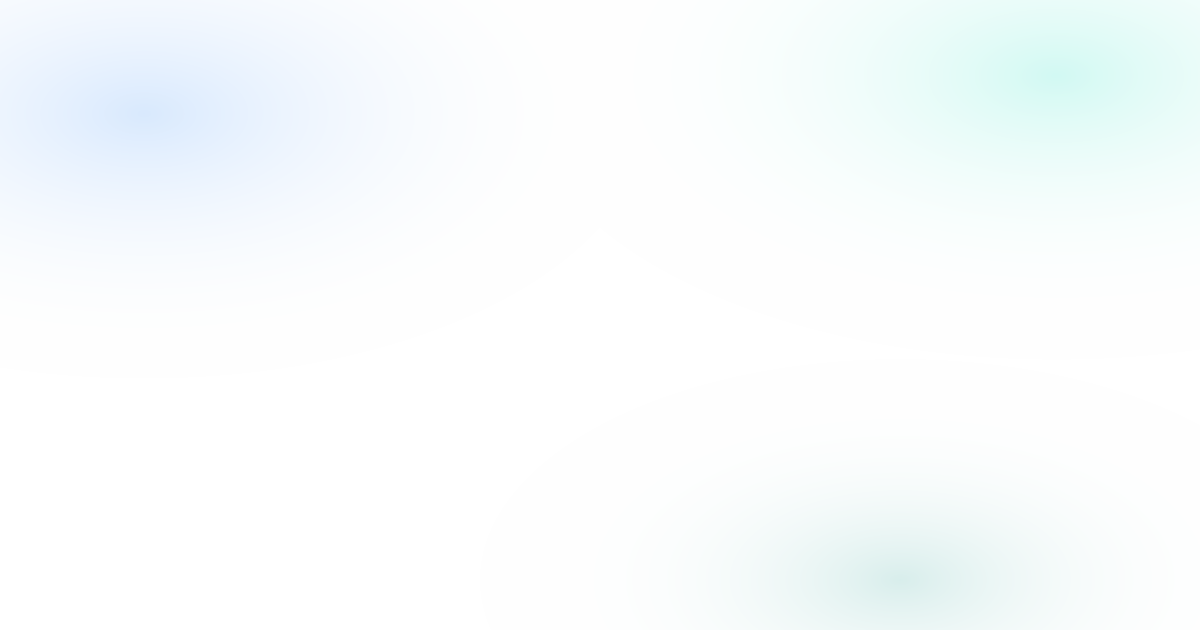
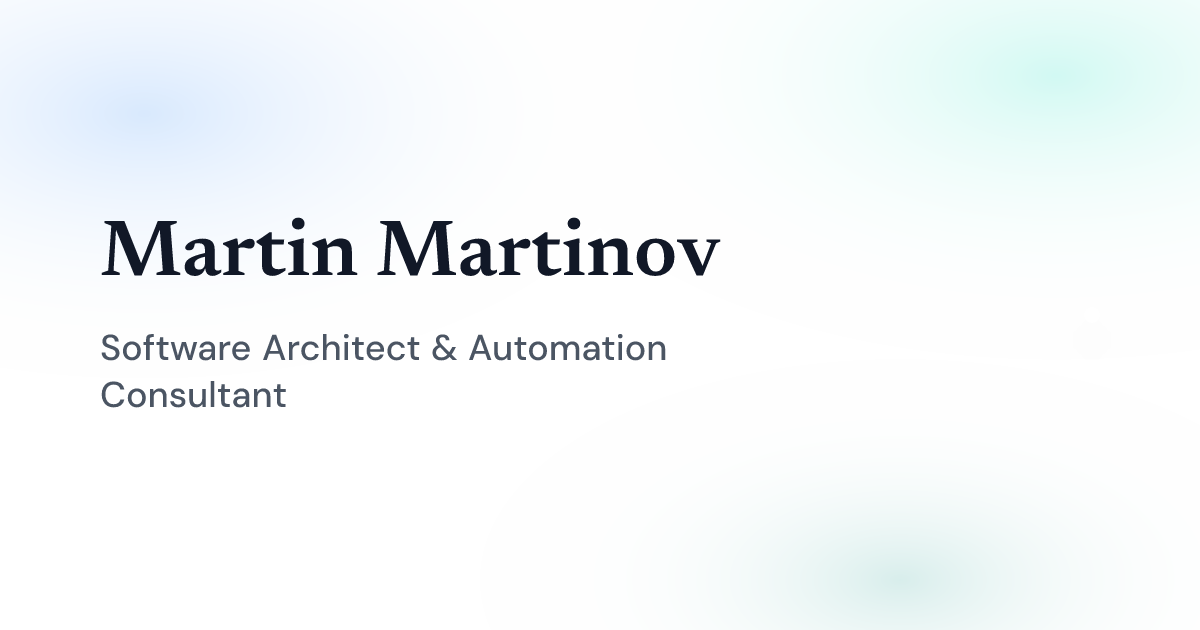
Better og image

Changed region(s): [[0.0925, 0.3317, 0.6167, 0.4524], [0.0617, 0.5429, 0.555, 0.573], [0.0617, 0.6032, 0.2467, 0.6635]]

diff --git a/content/about.ts b/content/about.ts
@@ -19,7 +19,7 @@ export const story = {
     "I wrote my first code in 1996 at age 11 on an 8-bit machine at a local computer club. Once I got my own PC - a 386 with 1MB of RAM - there was no turning back. In my late teens I was writing x86 assembly.",
     "As an introvert, I was drawn to programming because computers are predictable - they do exactly what you tell them. The irony is that software engineering is fundamentally about people: stakeholders, teammates, users. I've grown to enjoy that collaboration as much as the code.",
     "Decades of building software took me from Sofia to Copenhagen, Vienna, Munich, and London. I've shipped CRMs and ERPs, led teams, consulted for the IAEA, and learned that the best solutions come from understanding the problem deeply before writing any code.",
-    "Now I'm back home in Bulgaria with my family. Currently Solutions Architect and co-owner of Camplight cooperative, doing the work I love with clients across the US and Europe.",
+    "Now I'm back home in Bulgaria with my family. Currently Solutions Architect and co-owner of Camplight cooperative, doing the work I love with clients across Europe and the US.",
   ],
 };
 
